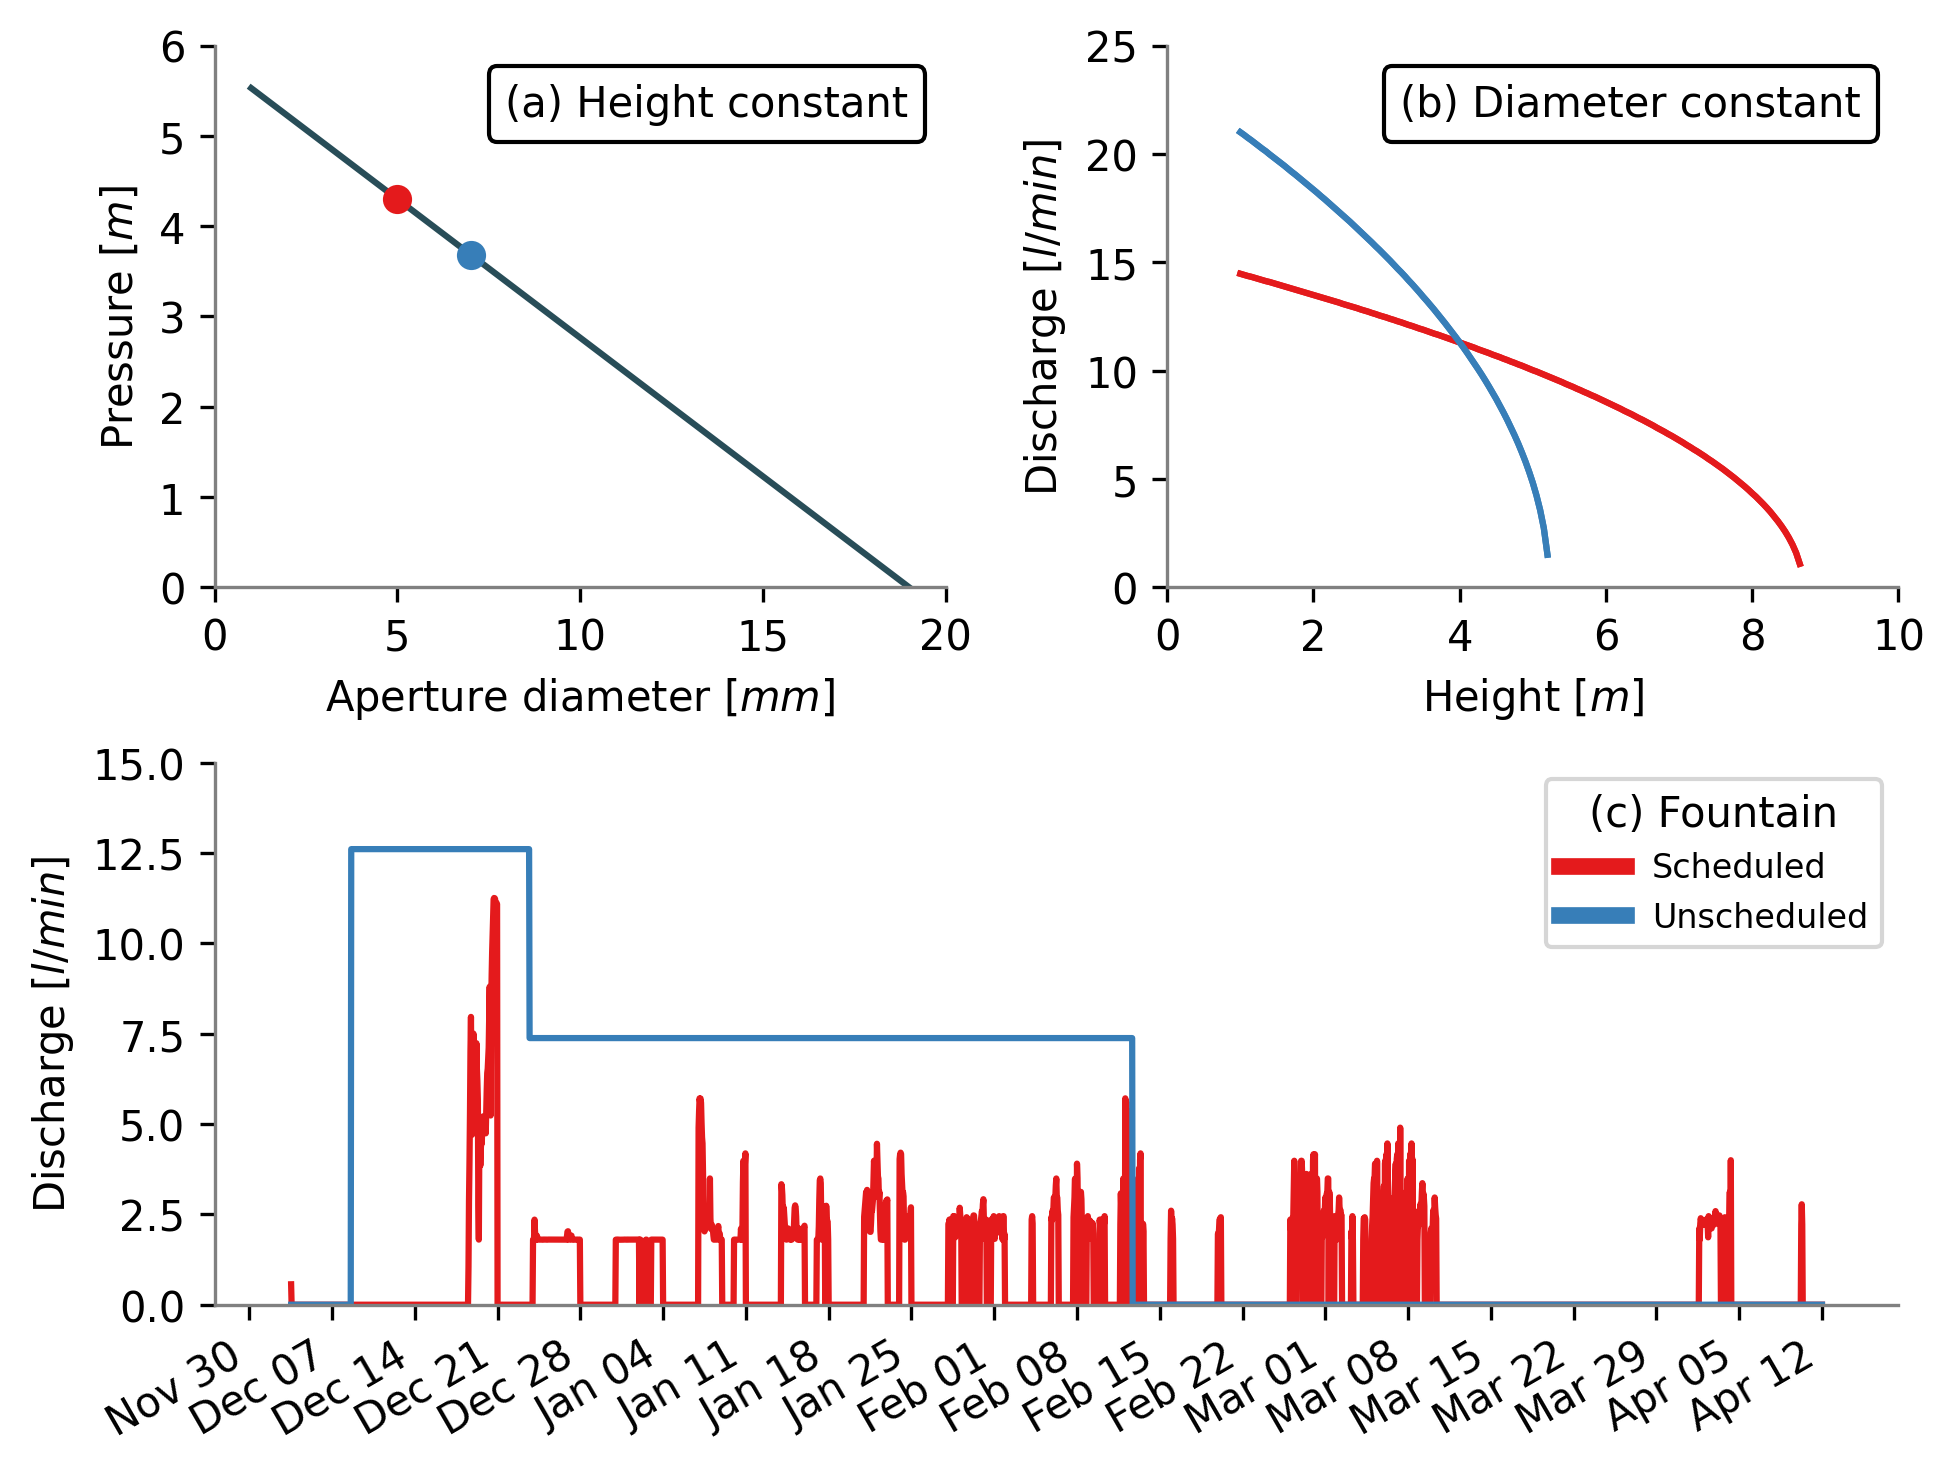
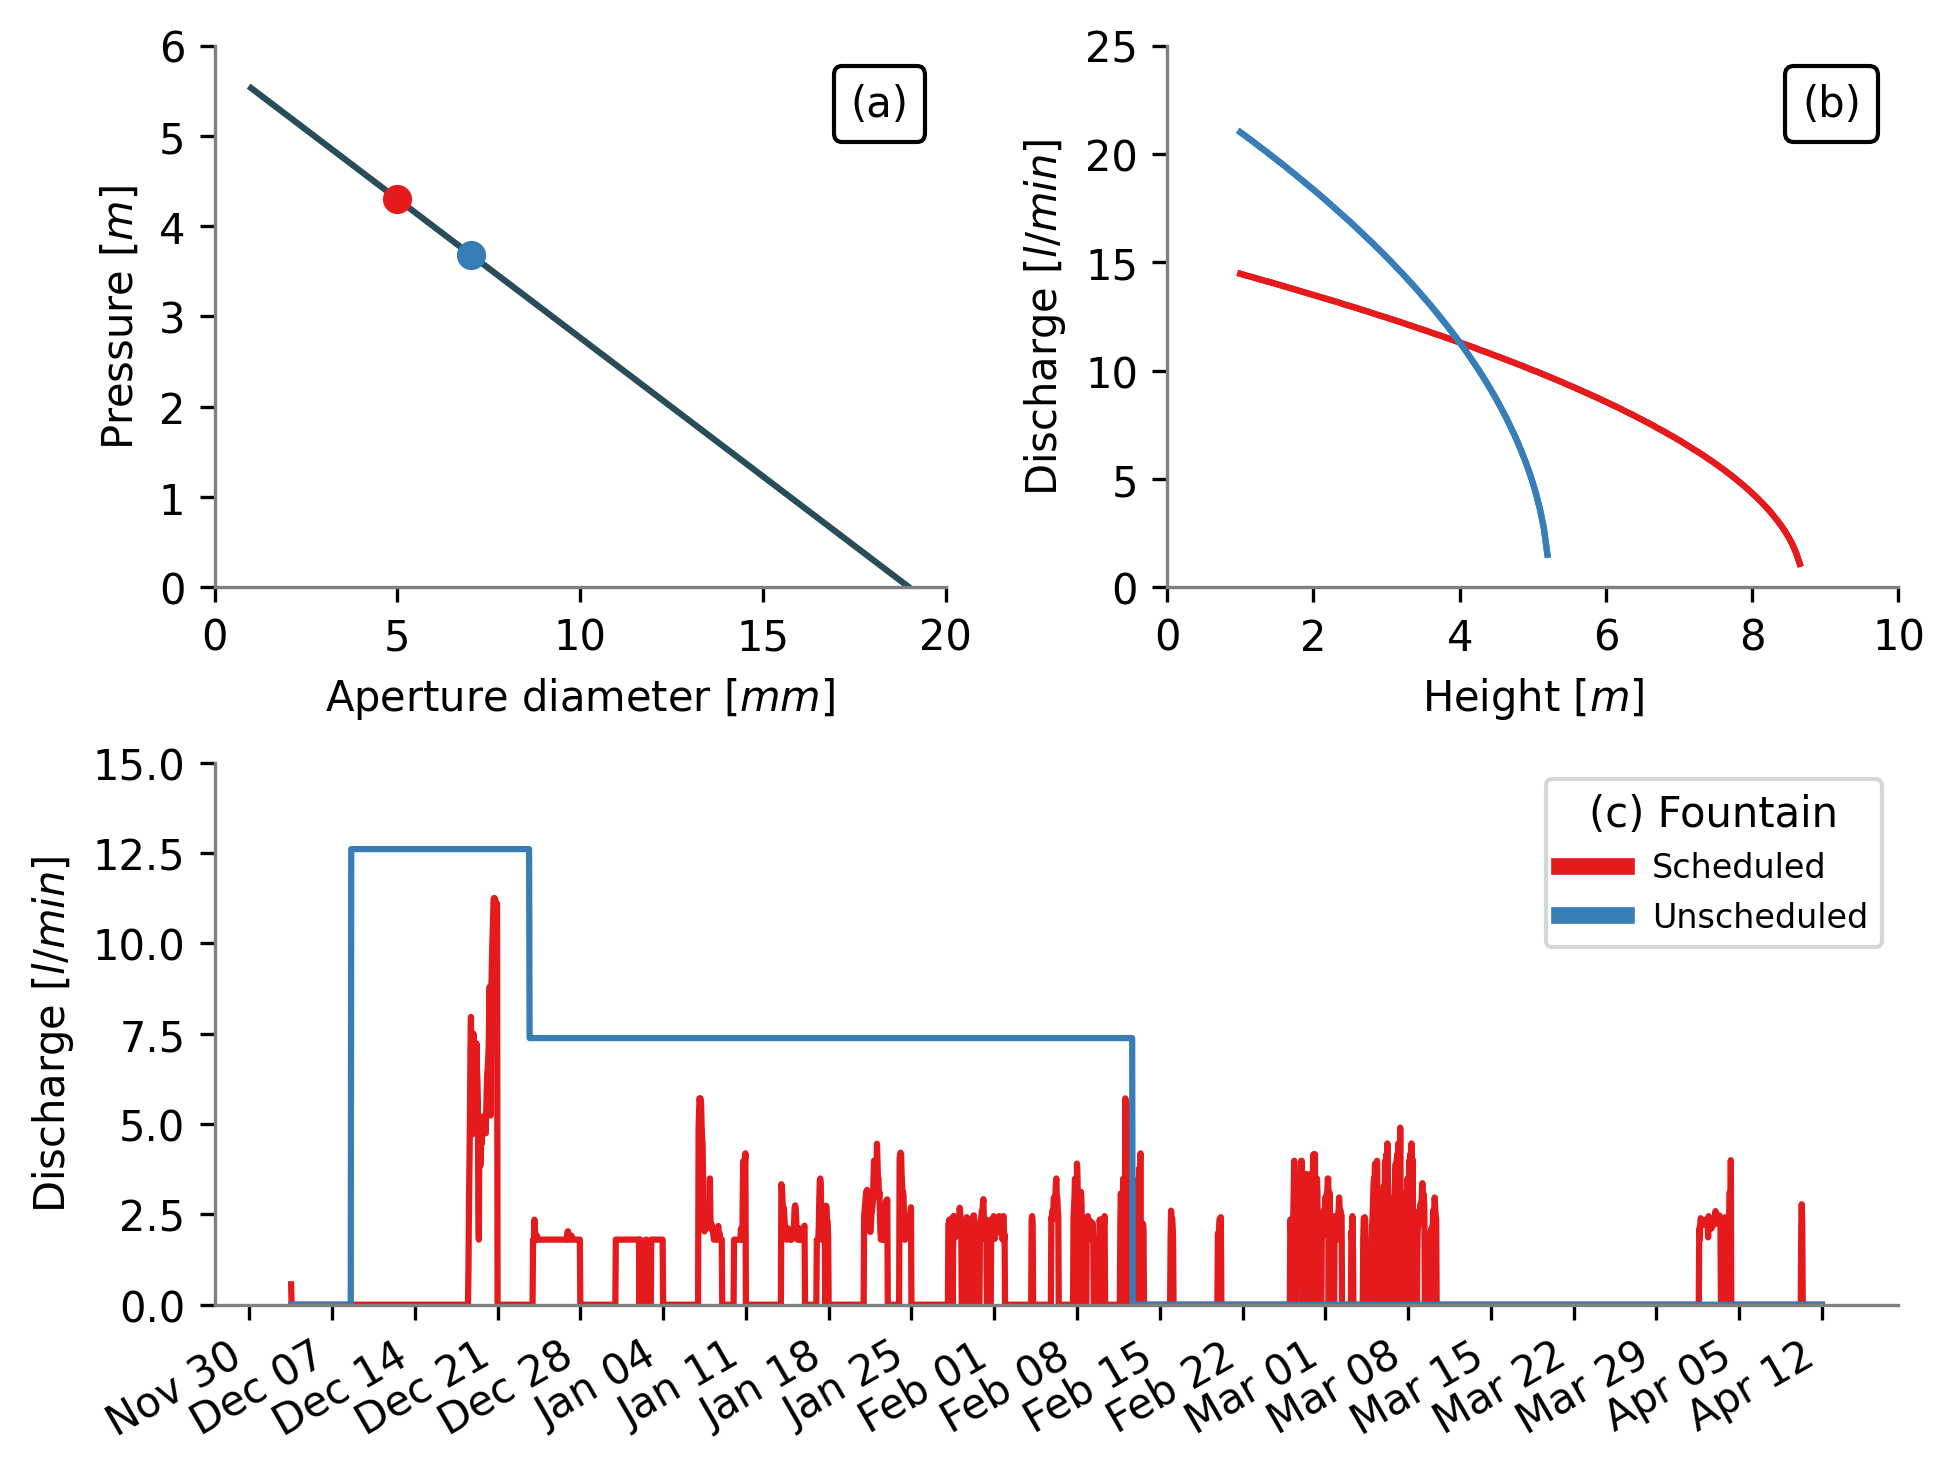
Improved Discussion

Changed region(s): [[0.2497, 0.0312, 0.4683, 0.0936], [0.718, 0.0312, 0.9678, 0.0936]]

diff --git a/tech.tex b/tech.tex
@@ -620,11 +620,12 @@ forced model. }
 \subsection{Benefits of scheduling fountains}
 
 \begin{figure*}[t]
-\includegraphics[width=12cm]{Figures/wue.png}
+\includegraphics[width=\textwidth]{Figures/wue.png}
 
-\caption{The maximum volumes and water-use efficiency estimated for AIRs constructed in different locations
+\caption{(a) The maximum volumes and water-use efficiency estimated for AIRs constructed in different locations
 (represented by colours) with different fountain scheduling strategies (represented by symbols). Experimental
-values are highlighted by black circles and simulated values are highlighted by grey circles.  }
+values are highlighted by black circles and simulated values are highlighted by grey circles. (b) Comparison of
+the unscheduled and HIV scheduled fountain's discharge rates at the IN21 location.}
 
 \label{fig:wue}
 \end{figure*}
@@ -654,10 +655,14 @@ in water-use efficiency from 4 \% to 31 \%. However, the HWE fountain was succes
 efficiency up to 60 \%. 
 
 For the Swiss location, scheduled fountains yield better water-use efficiency but do not alter the maximum
-volume obtained significantly. For the Indian location, the two kinds of scheduled fountains yield significantly
-different results when compared to the unscheduled fountain. The HIV fountain was able to achieve a 1.5 fold
-increase in the maximum volume and a 2 fold increase in the water-use efficiency compared to the unscheduled
-fountain mainly because it suffered no fountain freezing events. Even though the HWE fountain achieved water-use
+volume obtained significantly. 
+
+For the Indian location, the two kinds of scheduled fountains yield significantly different results when
+compared to the unscheduled fountain. The HIV fountain was able to achieve a 1.5 fold increase in the maximum
+volume and a 2 fold increase in the water-use efficiency compared to the unscheduled fountain because its
+discharge rate was much lower and its discharge duration was much longer as shown in Fig. \ref{fig:wue} (b). The
+discharge duration of both the HIV and HWE fountains were higher than the unscheduled fountain since they were
+not interrupted and limited by fountain freezing events. Even though the HWE fountain achieved water-use
 efficiency higher than the HIV fountain, its maximum volume was even lower than the unscheduled fountain.
 
 \subsection{Challenges of scheduling fountains}
